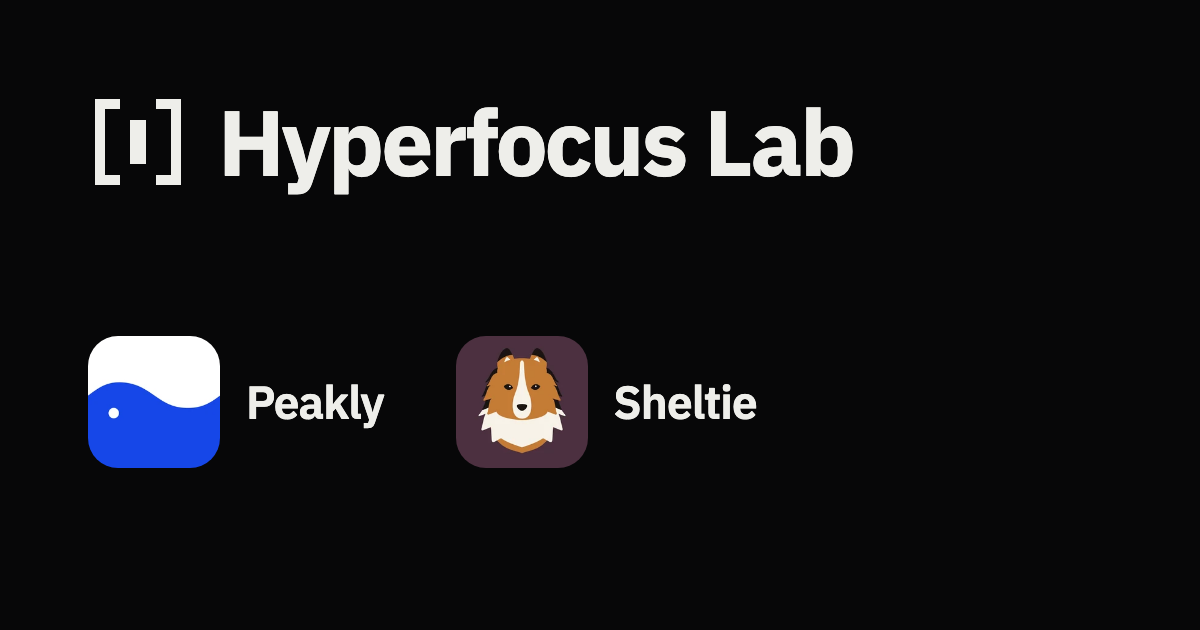
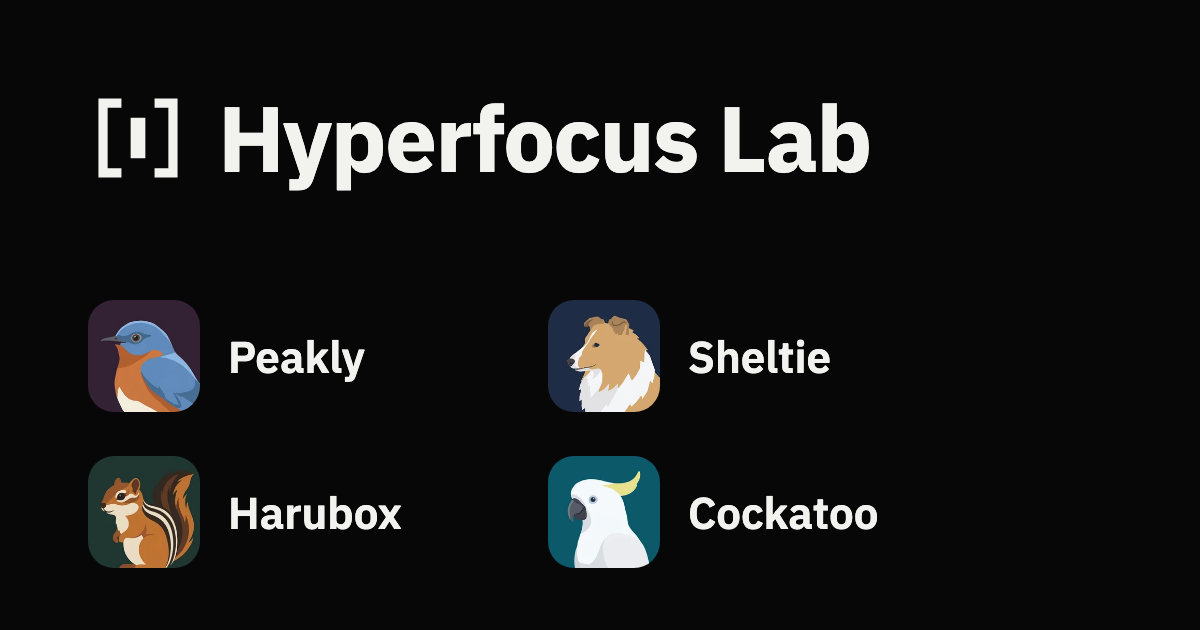
사이트 감사: 홈에 앱 4개, 피클리 언어 4개, Sheltie herdr-core·Android 표기, README 갱신
- 홈 title·description 4개 언어: 피클리·Sheltie만 → 코카투·하루박스까지
- 링크 미리보기 카드 og-home: 앱 4개 (v=2)
- 피클리 언어: ko·en·ja 페이지 3개 → App Store와 같은 4개(繁體中文 포함)
- Sheltie 제품 페이지 조건: herdr → herdr-core
- Sheltie 지원 페이지 4개 언어: Android 비공개 테스트 안내 추가
- README: hyperfocuslab.cloud 시절 내용 → 지금 구조

diff --git a/src/i18n.ts b/src/i18n.ts
@@ -370,8 +370,8 @@ export const ui = {
     docs: { privacy: '개인정보처리방침', terms: '서비스 이용약관', support: '고객지원' },
     footer: { products: '제품', language: '언어', legal: '© Hyperfocus Lab · 대표 이예준' },
     home: {
-      title: 'Hyperfocus Lab | 피클리 · Sheltie',
-      description: '피클리는 복용 시각을 기록하면 하루 동안의 예상 약효 곡선을 그려 주는 ADHD 복약 기록 앱입니다. Sheltie는 PC의 코딩 에이전트가 멈추면 iPhone 잠금화면에서 바로 허용하는 앱입니다.',
+      title: 'Hyperfocus Lab | 피클리 · Sheltie · 코카투 · 하루박스',
+      description: '피클리는 복용 시각을 기록하면 하루 동안의 예상 약효 곡선을 그려 주는 ADHD 복약 기록 앱입니다. Sheltie는 PC의 코딩 에이전트가 멈추면 폰 잠금화면에서 바로 허용하는 앱, 코카투는 영어로 말하면 문장을 고쳐 주고 발음을 단어별로 짚어 주는 앱, 하루박스는 하루 종일 녹음하고 받아쓰기와 요약을 iPhone 안에서 하는 앱입니다.',
       company: 'Hyperfocus Lab은 자체 소프트웨어 제품을 만들고 운영하는 스튜디오입니다.',
       more: '자세히 보기 →',
       peaklyTitle: '피클리 | ADHD 복약 기록 앱',
@@ -380,7 +380,7 @@ export const ui = {
         title: '제품',
         facts: [
           ['플랫폼', 'iPhone · iPad · Android'],
-          ['언어', '한국어 · English · 日本語'],
+          ['언어', '한국어 · English · 日本語 · 繁體中文'],
         ],
         more: '피클리 페이지로',
       },
@@ -404,7 +404,7 @@ export const ui = {
         ],
         agentsLabel: '지원 에이전트',
         agents: 'Claude Code · Codex · Gemini CLI · Qwen Code · OpenCode · Grok · GitHub Copilot CLI · Cursor Agent · Amp',
-        requirements: 'Claude Code나 Codex를 돌리는 Mac이나 Windows PC, 그리고 Tailscale만 있으면 돼요. 승인과 질문 답은 평소 쓰던 터미널 그대로. 실시간 터미널, 폰에서 메시지 보내기나 새 작업 시작, 다른 에이전트는 herdr로 돌릴 때 돼요. 설치는 명령 한 줄 붙여 넣고 QR 찍으면 끝나요.',
+        requirements: 'Claude Code나 Codex를 돌리는 Mac이나 Windows PC, 그리고 Tailscale만 있으면 돼요. 승인과 질문 답은 평소 쓰던 터미널 그대로. 실시간 터미널, 폰에서 메시지 보내기나 새 작업 시작, 다른 에이전트는 herdr-core로 돌릴 때 돼요. 설치는 명령 한 줄 붙여 넣고 QR 찍으면 끝나요.',
         android: {
           button: 'Android 테스트 참여',
           label: 'Android 비공개 테스트',
@@ -470,7 +470,7 @@ export const ui = {
             tab: '설정',
             intro: '언어와 화면, 백업까지 내게 맞게.',
             rows: [
-              { shot: 'settings', label: '내 방식대로', title: '언어와 화면을 내게 맞게.', body: '한국어, 영어, 일본어를 지원하고 다크·라이트 모드와 글꼴을 고를 수 있습니다. 목표 취침·기상 시간을 정해 두면 약효가 잠자리까지 이어질지 미리 알려줍니다.', alt: '언어, 디스플레이 모드, 글꼴, 목표 취침·기상 시간이 있는 설정 화면' },
+              { shot: 'settings', label: '내 방식대로', title: '언어와 화면을 내게 맞게.', body: '한국어, 영어, 일본어, 중국어(번체)를 지원하고 다크·라이트 모드와 글꼴을 고를 수 있습니다. 목표 취침·기상 시간을 정해 두면 약효가 잠자리까지 이어질지 미리 알려줍니다.', alt: '언어, 디스플레이 모드, 글꼴, 목표 취침·기상 시간이 있는 설정 화면' },
               { shot: 'backup', label: '백업·복구', title: '폰을 바꿔도 기록은 그대로.', body: '복약 기록과 건강 데이터는 외부 서버로 보내지 않고, 기기와 내 iCloud(Android는 Google Drive)에만 저장됩니다. 자동으로 백업하고, 필요할 때 지금 바로 백업하거나 파일로 내보낼 수 있습니다.', alt: 'iCloud 백업, 지금 백업, 데이터 내보내기와 가져오기가 있는 백업·복구 화면' },
             ],
           },
@@ -501,8 +501,8 @@ export const ui = {
     docs: { privacy: 'Privacy Policy', terms: 'Terms of Service', support: 'Support' },
     footer: { products: 'Products', language: 'Language', legal: '© Hyperfocus Lab · Representative: Yejun Lee' },
     home: {
-      title: 'Hyperfocus Lab | Peakly · Sheltie',
-      description: "Peakly is an ADHD medication tracker that draws the day's estimated effect curve from your dose times. Sheltie lets you approve coding agents on your computer from the iPhone Lock Screen.",
+      title: 'Hyperfocus Lab | Peakly · Sheltie · Cockatoo · Harubox',
+      description: "Peakly is an ADHD medication tracker that draws the day's estimated effect curve from your dose times. Sheltie lets you approve coding agents on your computer from your phone's Lock Screen. Cockatoo corrects the English you speak and checks your pronunciation word by word. Harubox records all day and transcribes and summarizes on your iPhone.",
       company: 'Hyperfocus Lab is a studio that builds and runs its own software products.',
       more: 'Learn more →',
       peaklyTitle: 'Peakly | ADHD medication tracker',
@@ -511,7 +511,7 @@ export const ui = {
         title: 'Products',
         facts: [
           ['Platforms', 'iPhone · iPad · Android'],
-          ['Languages', '한국어 · English · 日本語'],
+          ['Languages', '한국어 · English · 日本語 · 繁體中文'],
         ],
         more: 'Go to Peakly',
       },
@@ -535,7 +535,7 @@ export const ui = {
         ],
         agentsLabel: 'Supported agents',
         agents: 'Claude Code · Codex · Gemini CLI · Qwen Code · OpenCode · Grok · GitHub Copilot CLI · Cursor Agent · Amp',
-        requirements: 'A Mac or Windows PC running Claude Code or Codex, plus Tailscale. Approvals and questions work from any terminal; the live terminal, sending messages, new tasks from your phone and the other agents need herdr. Setup is one command on the computer and a QR scan.',
+        requirements: 'A Mac or Windows PC running Claude Code or Codex, plus Tailscale. Approvals and questions work from any terminal; the live terminal, sending messages, new tasks from your phone and the other agents need herdr-core. Setup is one command on the computer and a QR scan.',
         android: {
           button: 'Join the Android test',
           label: 'Android closed test',
@@ -601,7 +601,7 @@ export const ui = {
             tab: 'Settings',
             intro: 'Language, look, and backups, your way.',
             rows: [
-              { shot: 'settings', label: 'Make it yours', title: 'Language and look, your way.', body: 'Peakly is available in Korean, English, and Japanese, with dark and light modes and font options. Set your target bedtime and wake time, and Peakly warns you if the effect may last into the night.', alt: 'Settings screen with language, display mode, font, and target bedtime and wake time' },
+              { shot: 'settings', label: 'Make it yours', title: 'Language and look, your way.', body: 'Peakly is available in Korean, English, Japanese, and Traditional Chinese, with dark and light modes and font options. Set your target bedtime and wake time, and Peakly warns you if the effect may last into the night.', alt: 'Settings screen with language, display mode, font, and target bedtime and wake time' },
               { shot: 'backup', label: 'Backup and restore', title: 'New phone, same records.', body: 'Your dose records and health data never go to an outside server. They are stored only on your device and in your own iCloud (Google Drive on Android). Backups run automatically, and you can also back up now or export a file.', alt: 'Backup screen with iCloud backup, back up now, and data export and import' },
             ],
           },
@@ -632,8 +632,8 @@ export const ui = {
     docs: { privacy: 'プライバシーポリシー', terms: '利用規約', support: 'サポート' },
     footer: { products: 'プロダクト', language: '言語', legal: '© Hyperfocus Lab · 代表 Yejun Lee' },
     home: {
-      title: 'Hyperfocus Lab | ピークリー · Sheltie',
-      description: '服用時刻を記録すると、1日の作用の予測グラフを表示します。気分や目標、タスクも同じアプリで記録できます。iPhone・iPad・Android対応。',
+      title: 'Hyperfocus Lab | ピークリー · Sheltie · Cockatoo · Harubox',
+      description: 'ピークリーは服用時刻から1日の作用の予測グラフを描くADHDの服薬記録アプリです。SheltieはPCのコーディングエージェントが止まるとロック画面から許可できるアプリ、Cockatooは話した英語を添削し発音を単語ごとに示すアプリ、Haruboxは一日中録音して文字起こしと要約をiPhone内で行うアプリです。',
       company: 'Hyperfocus Labは、自社のソフトウェアプロダクトを開発・運営するスタジオです。',
       more: '詳しく見る →',
       peaklyTitle: 'ピークリー | ADHDの服薬記録アプリ',
@@ -642,7 +642,7 @@ export const ui = {
         title: 'プロダクト',
         facts: [
           ['対応OS', 'iPhone · iPad · Android'],
-          ['言語', '한국어 · English · 日本語'],
+          ['言語', '한국어 · English · 日本語 · 繁體中文'],
         ],
         more: 'ピークリーのページへ',
       },
@@ -663,7 +663,7 @@ export const ui = {
         ],
         agentsLabel: '対応エージェント',
         agents: 'Claude Code · Codex · Gemini CLI · Qwen Code · OpenCode · Grok · GitHub Copilot CLI · Cursor Agent · Amp',
-        requirements: 'Claude CodeかCodexを動かしているMacまたはWindows PCと、Tailscaleがあれば使えます。承認と質問への回答は、いつものターミナルのままで動きます。リアルタイムのターミナル、メッセージ送信、スマートフォンからの新しい作業、ほかのエージェントにはherdrが必要です。セットアップは、PCにコマンドを1行貼り付けてQRコードを読み取るだけです。',
+        requirements: 'Claude CodeかCodexを動かしているMacまたはWindows PCと、Tailscaleがあれば使えます。承認と質問への回答は、いつものターミナルのままで動きます。リアルタイムのターミナル、メッセージ送信、スマートフォンからの新しい作業、ほかのエージェントにはherdr-coreが必要です。セットアップは、PCにコマンドを1行貼り付けてQRコードを読み取るだけです。',
         android: {
           button: 'Androidテストに参加',
           label: 'Androidクローズドテスト',
@@ -727,7 +727,7 @@ export const ui = {
             tab: '設定',
             intro: '言語も画面もバックアップも、自分に合わせて。',
             rows: [
-              { shot: 'settings', label: '自分に合わせて', title: '言語も画面も、自分に合わせて。', body: '韓国語、英語、日本語で使えます。ダーク・ライトモードとフォントも選べます。目標の就寝・起床時間を決めておくと、作用が寝る時間まで続きそうなときに事前にお知らせします。', alt: '言語、ディスプレイモード、フォント、目標の就寝・起床時間がある設定画面' },
+              { shot: 'settings', label: '自分に合わせて', title: '言語も画面も、自分に合わせて。', body: '韓国語、英語、日本語、繁体字中国語で使えます。ダーク・ライトモードとフォントも選べます。目標の就寝・起床時間を決めておくと、作用が寝る時間まで続きそうなときに事前にお知らせします。', alt: '言語、ディスプレイモード、フォント、目標の就寝・起床時間がある設定画面' },
               { shot: 'backup', label: 'バックアップ・復元', title: '機種を変えても、記録はそのまま。', body: '服薬記録と健康データは外部のサーバーには送らず、端末と自分のiCloud（AndroidはGoogleドライブ）にだけ保存されます。自動でバックアップし、必要なときは今すぐバックアップしたりファイルに書き出したりできます。', alt: 'iCloudバックアップ、今すぐバックアップ、データの書き出しと読み込みがあるバックアップ画面' },
             ],
           },
@@ -758,8 +758,8 @@ export const ui = {
     docs: { privacy: '隱私權政策', terms: '服務條款', support: '客戶支援' },
     footer: { products: '產品', language: '語言', legal: '© Hyperfocus Lab · 代表 Yejun Lee' },
     home: {
-      title: 'Hyperfocus Lab | Peakly · Sheltie',
-      description: '記錄服藥時間，Peakly 就會畫出一天中的預估藥效曲線。心情、目標與待辦事項也能在同一個 App 裡記錄。支援 iPhone、iPad、Android。',
+      title: 'Hyperfocus Lab | Peakly · Sheltie · Cockatoo · Harubox',
+      description: 'Peakly 是 ADHD 服藥紀錄 App，依服藥時間畫出一天的預估藥效曲線。Sheltie 讓你在手機鎖定畫面核准電腦上的程式代理；Cockatoo 修正你說的英文並逐字檢查發音；Harubox 整天錄音，在 iPhone 上產生逐字稿與摘要。',
       company: 'Hyperfocus Lab 是一間開發並營運自家軟體產品的工作室。',
       more: '了解更多 →',
       peaklyTitle: 'Peakly | ADHD 服藥紀錄 App',
@@ -789,7 +789,7 @@ export const ui = {
         ],
         agentsLabel: '支援的代理',
         agents: 'Claude Code · Codex · Gemini CLI · Qwen Code · OpenCode · Grok · GitHub Copilot CLI · Cursor Agent · Amp',
-        requirements: '只要有執行 Claude Code 或 Codex 的 Mac 或 Windows PC，再加上 Tailscale 就能使用。核准與回答問題可直接在原本的終端機運作；即時終端機、傳送訊息、從手機開始新工作，以及其他代理，都需要 herdr。設定只要在電腦貼上一行指令，再掃描 QR 碼。',
+        requirements: '只要有執行 Claude Code 或 Codex 的 Mac 或 Windows PC，再加上 Tailscale 就能使用。核准與回答問題可直接在原本的終端機運作；即時終端機、傳送訊息、從手機開始新工作，以及其他代理，都需要 herdr-core。設定只要在電腦貼上一行指令，再掃描 QR 碼。',
         android: {
           button: '參加 Android 測試',
           label: 'Android 封閉測試',

diff --git a/src/data/docs/sheltie-support.ja.html b/src/data/docs/sheltie-support.ja.html
@@ -1,4 +1,4 @@
-<p class="intro">MacやWindows PCで動くClaude CodeやCodexのエージェントが止まったとき、iPhoneのロック画面の通知からそのまま答えられる無料アプリです。</p>
+<p class="intro">MacやWindows PCで動くClaude CodeやCodexのエージェントが止まったとき、iPhoneのロック画面の通知からそのまま答えられる無料アプリです。Android版はクローズドテスト中で、参加方法は<a href="/ja/sheltie/#android">Sheltieのページ</a>にあります。</p>
       <section aria-labelledby="needs">
         <h2 id="needs">必要なもの</h2>
         <ul>

diff --git a/src/data/docs/sheltie-support.ko.html b/src/data/docs/sheltie-support.ko.html
@@ -1,4 +1,4 @@
-<p class="intro">맥이나 윈도우 PC에서 돌아가는 Claude Code나 Codex 에이전트가 멈추면, 아이폰 잠금화면 알림으로 바로 답하는 무료 앱입니다.</p>
+<p class="intro">맥이나 윈도우 PC에서 돌아가는 Claude Code나 Codex 에이전트가 멈추면, 아이폰 잠금화면 알림으로 바로 답하는 무료 앱입니다. 안드로이드 앱은 비공개 테스트 중이고, 참여 방법은 <a href="/sheltie/#android">Sheltie 페이지</a>에 있습니다.</p>
       <section aria-labelledby="needs">
         <h2 id="needs">필요한 것</h2>
         <ul>

diff --git a/src/data/docs/sheltie-support.zh-Hant.html b/src/data/docs/sheltie-support.zh-Hant.html
@@ -1,4 +1,4 @@
-<p class="intro">在 Mac 或 Windows PC 上執行的 Claude Code 或 Codex 代理停下來時，可以直接從 iPhone 鎖定畫面的通知回覆的免費 App。</p>
+<p class="intro">在 Mac 或 Windows PC 上執行的 Claude Code 或 Codex 代理停下來時，可以直接從 iPhone 鎖定畫面的通知回覆的免費 App。Android 版正在封閉測試，參加方式請見 <a href="/zh-Hant/sheltie/#android">Sheltie 頁面</a>。</p>
       <section aria-labelledby="needs">
         <h2 id="needs">需要準備</h2>
         <ul>

diff --git a/src/data/docs/sheltie-support.en.html b/src/data/docs/sheltie-support.en.html
@@ -1,4 +1,4 @@
-<p class="intro">A free app that lets you answer a stopped Claude Code or Codex agent from your iPhone Lock Screen. The agent runs on your Mac or Windows PC.</p>
+<p class="intro">A free app that lets you answer a stopped Claude Code or Codex agent from your iPhone Lock Screen. The agent runs on your Mac or Windows PC. The Android app is in closed testing; see the <a href="/en/sheltie/#android">Sheltie page</a> to join.</p>
       <section aria-labelledby="needs">
         <h2 id="needs">What you need</h2>
         <ul>

diff --git a/README.md b/README.md
@@ -1,40 +1,31 @@
-# hyperfocuslab.cloud
+# hyperfocuslab.app
 
-GitHub Pages에 바로 올릴 수 있도록 정리한 정적 사이트 파일입니다.
+Hyperfocus Lab 회사 홈페이지. Astro로 만들고 `main`에 push하면 GitHub Actions(`.github/workflows/deploy.yml`)가 GitHub Pages로 배포한다. 도메인은 `public/CNAME`.
 
-포함 파일:
+## 제품 페이지
 
-- `index.html`: 새 랜딩 페이지
-- `privacy.html`: 현재 라이브 개인정보처리방침 사본
-- `terms.html`: 현재 라이브 서비스 이용약관 사본
-- `support.html`: 한국어 고객지원 페이지
-- `support-en.html`: 영어 고객지원 페이지
-- `support-ja.html`: 일본어 고객지원 페이지
-- `assets/support.css`: 고객지원 페이지 공통 스타일
-- `app-ads.txt`: AdMob 검증 파일
-- `CNAME`: 커스텀 도메인 설정
-- `.nojekyll`: GitHub Pages 정적 파일 처리 보장
-- `assets/peakly-logo.png`: Peakly 로고
+| 제품 | 경로 | 언어 |
+|---|---|---|
+| 피클리(Peakly) | `/peakly/`, `/<lang>/peakly/` (+ support, privacy, terms) | ko · en · ja · zh-Hant |
+| Sheltie | `/sheltie/`, `/<lang>/sheltie/` (+ support, privacy) | ko · en · ja · zh-Hant |
+| 코카투(Cockatoo) | `/cockatoo/`, `/<lang>/cockatoo/` (+ support, privacy) | ko · en · ja · zh-Hant · de · es · fr · pt-BR |
+| 하루박스(Harubox) | `/harubox/`, `/<lang>/harubox/` (+ support, privacy) | ko · en · ja · zh-Hant · de · es · fr · pt-BR |
+| DEAD DISTRICT | `/dead-district/` (`hyperfocuslab/dead-district` 저장소의 Pages) | |
 
-배포 메모:
+홈은 `/`(영어), `/ko/`, `/ja/`, `/zh-Hant/`.
 
-1. GitHub Pages 원본 저장소 루트에 이 파일들을 복사합니다.
-2. 기존 `privacy.html`, `terms.html`를 유지하고 싶다면 이 폴더의 파일로 교체해도 됩니다.
-3. 커밋 후 Pages가 재배포되면 `https://hyperfocuslab.cloud/`에서 반영됩니다.
+## 파일
 
-## 다국어 페이지
+- `src/i18n.ts`: 홈과 제품 페이지 문구, 스토어 링크
+- `src/data/docs/`: 고객지원·개인정보 처리방침·약관 본문(`<문서>.<언어>.html`)과 제목(`.json`)
+- `public/assets/`: 앱 캡처, 아이콘, 링크 미리보기 카드(`og-*.png`)
+- `public/app-ads.txt`: AdMob 검증 파일
+- `DESIGN.md`: 사이트 디자인 결정
 
-- 한국어 홈페이지: `index.html` (`/`)
-- 영어 홈페이지: `index-en.html`
-- 일본어 홈페이지: `index-ja.html`
-- 각 언어의 지원·개인정보처리방침·이용약관 페이지로 연결합니다.
-- 영어·일본어 앱 화면은 Peakly 1.5.3 출시용 캡처를 사용합니다.
-- 개인정보처리방침·이용약관은 Peakly 저장소의 `AppStoreAssets/Release-1.5.3/legal` 번역본을 사용합니다.
-- 공통 홈페이지 스타일·동작: `assets/site.css`, `assets/site.js`
-- 약관 페이지 공통 스타일: `assets/legal.css`
+## 명령
 
-다운로드 배지 원본:
-
-- Apple: https://toolbox.marketingtools.apple.com/ja-jp/app-store/us/app/408709785 의 배지 언어 선택 도구
-- Google: https://play.google.com/intl/en_us/badges/static/images/badges/en_badge_web_generic.png
-- Google: https://play.google.com/intl/en_us/badges/static/images/badges/ja_badge_web_generic.png
+```sh
+npm install
+npm run dev
+npm run build
+```
